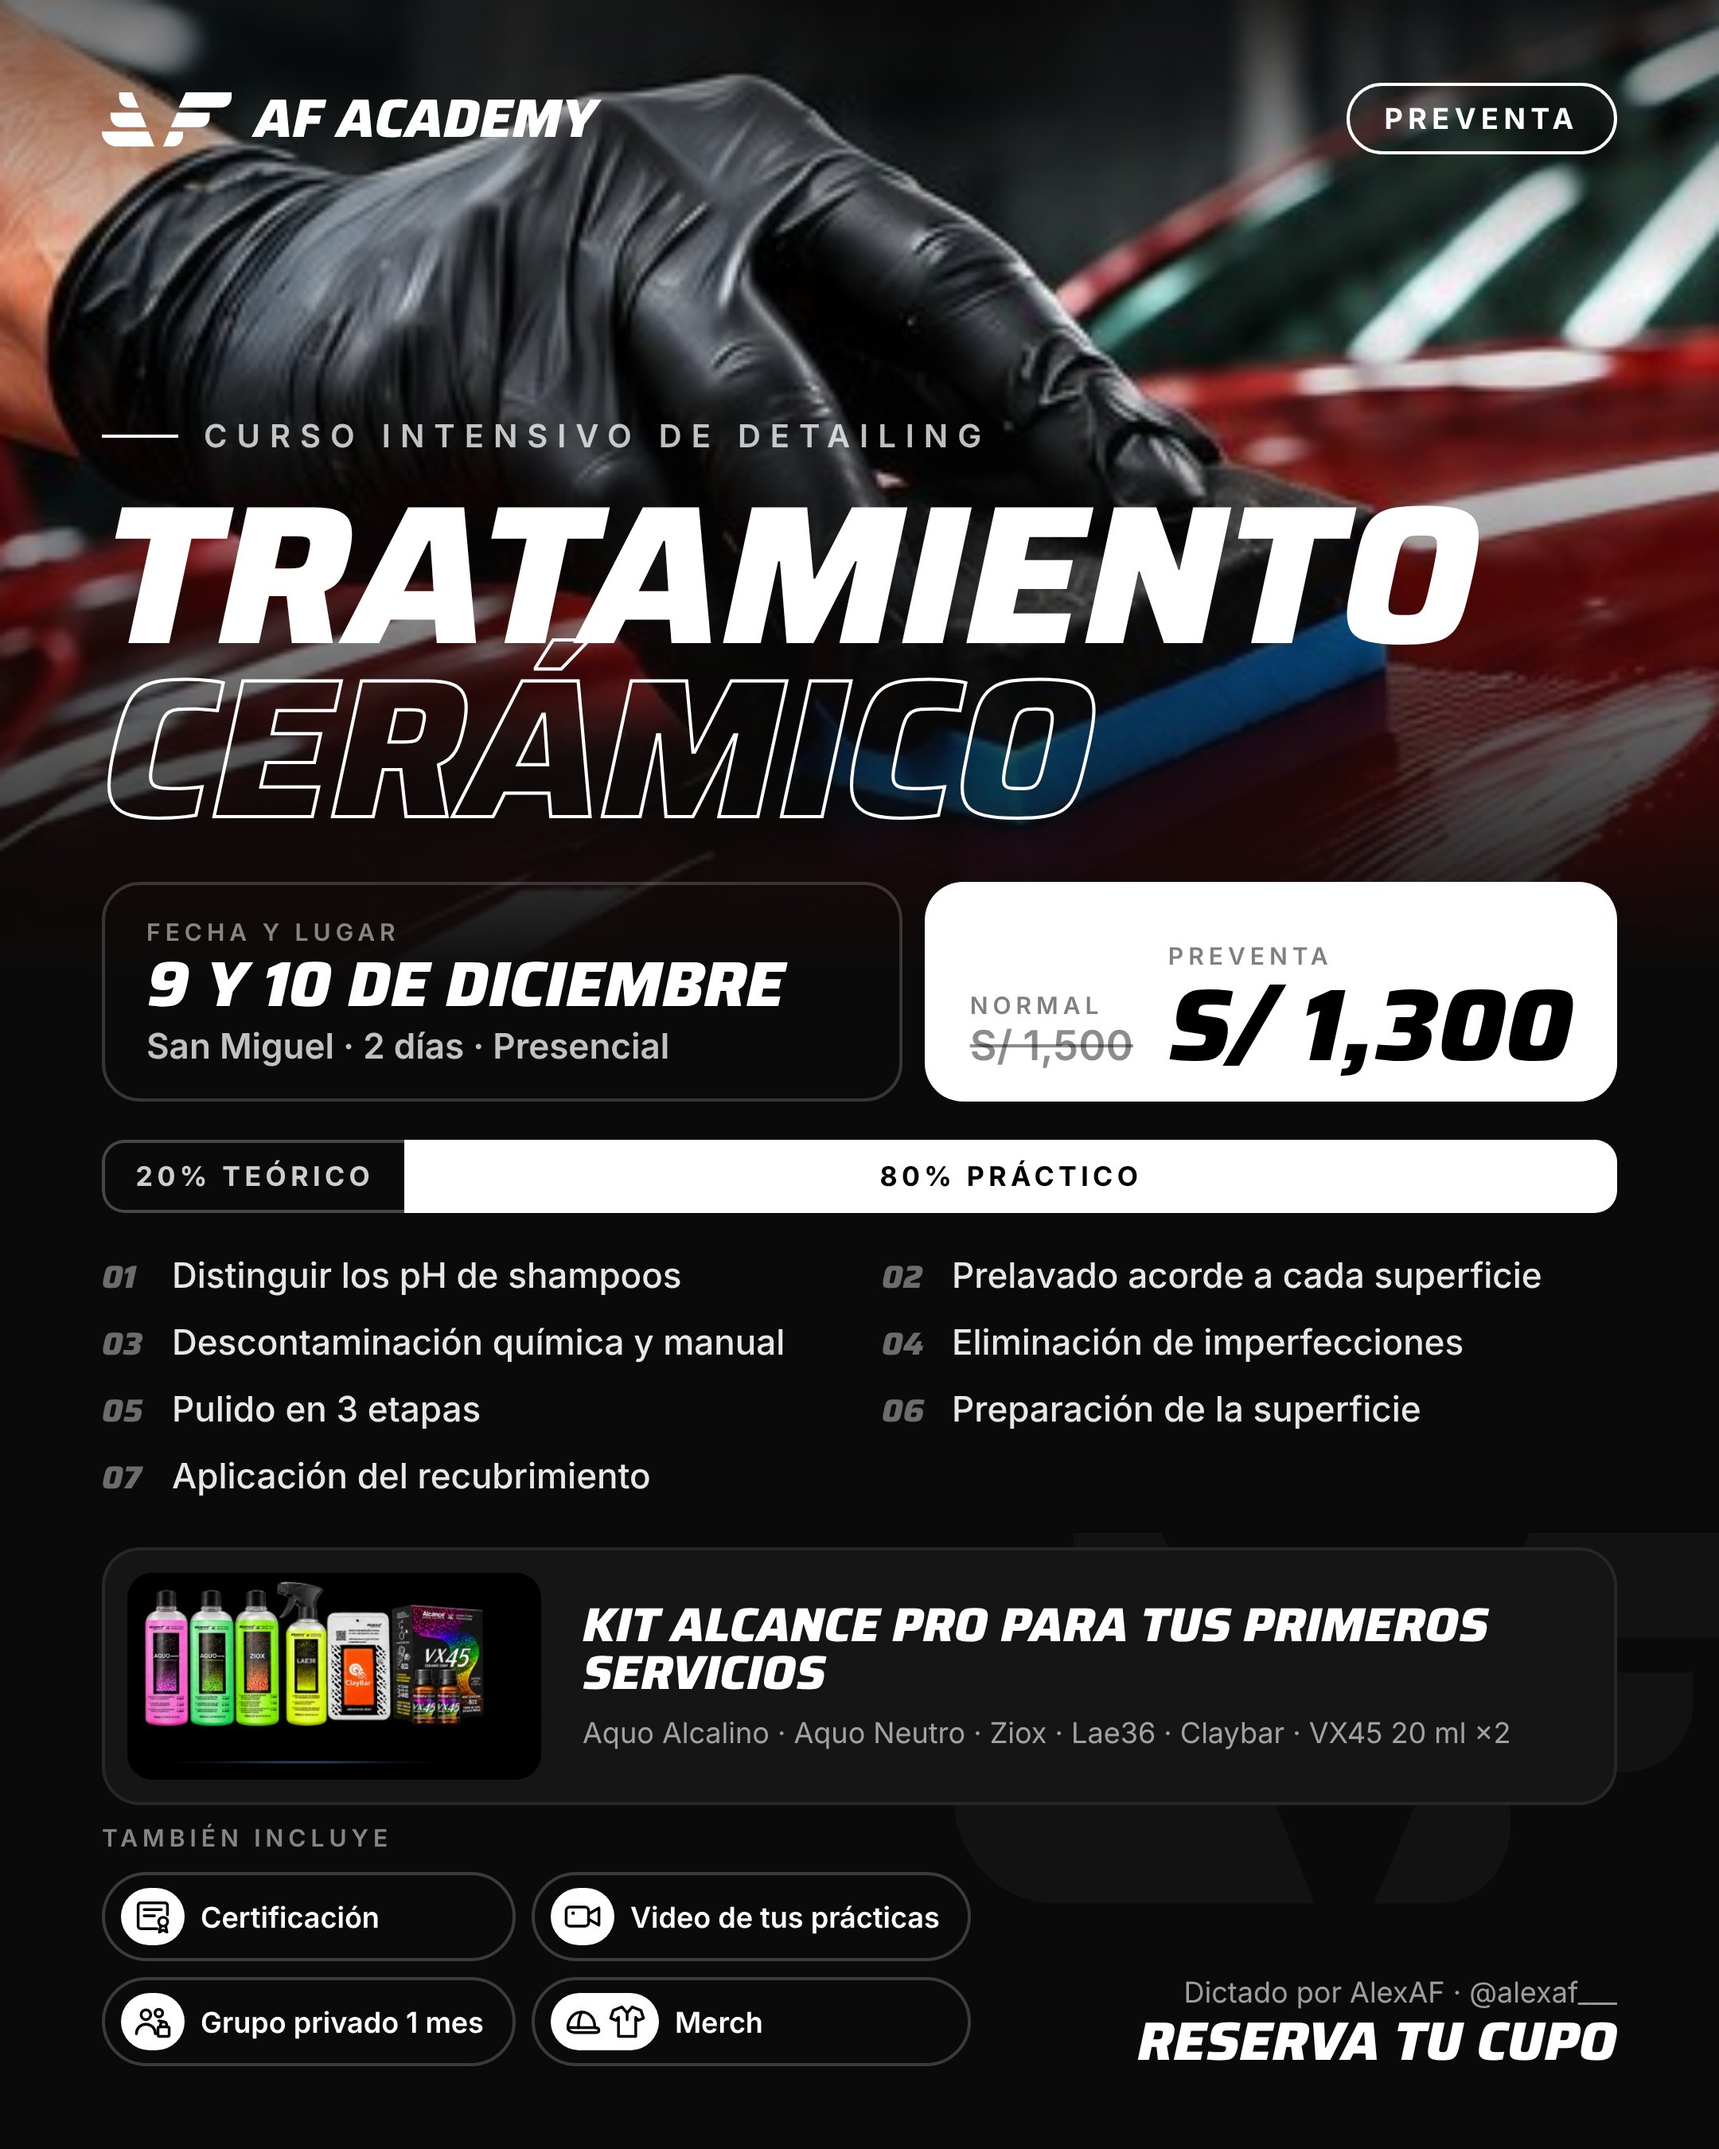
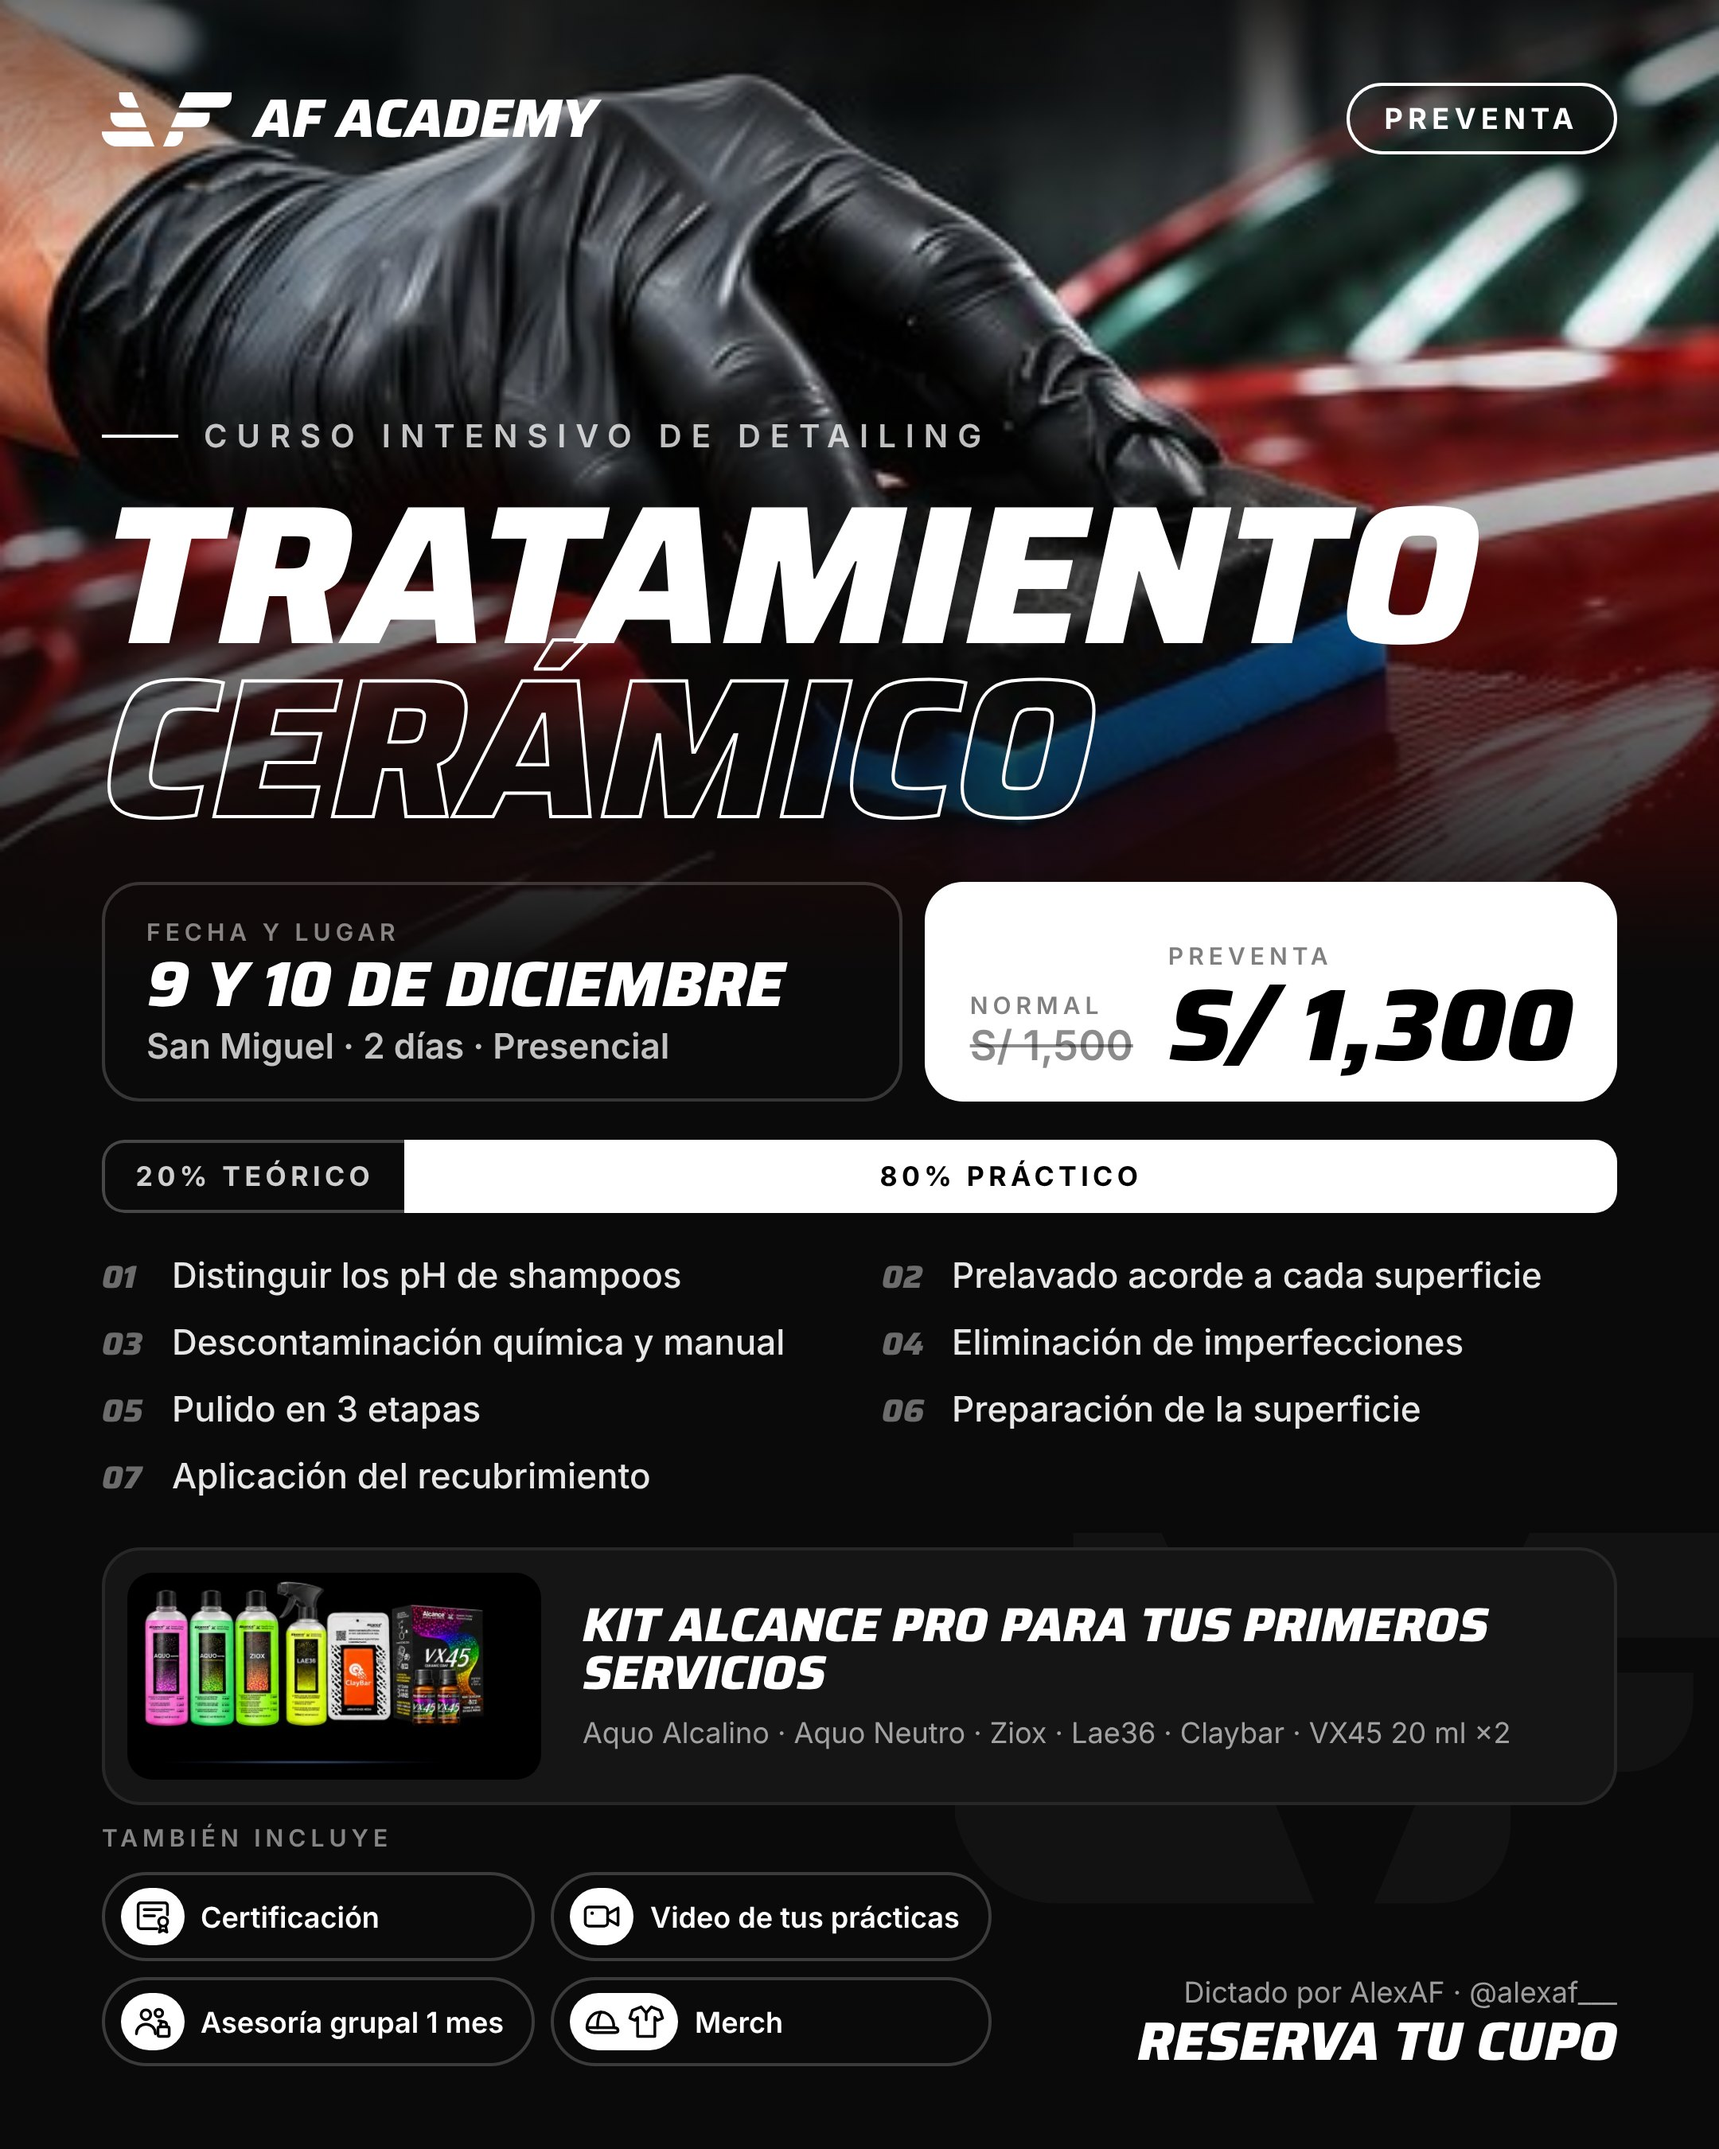
Asesoría grupal, Kit Emprende y certificaciones de Alex con banderas (U.S.A., Brasil, Argentina)
Claude-Session: https://claude.ai/code/session_01JeKCNjXde6szZMvGvJ2iR1

Changed region(s): [[0.1241, 0.8711, 0.5894, 0.9644], [0.5583, 0.9333, 0.5894, 0.9644]]

diff --git a/src/config/site.ts b/src/config/site.ts
@@ -34,10 +34,12 @@ export const site = {
     /** Foto del coach en /public/coach/. */
     photo: "/coach/alex.jpg",
     /** Títulos tal como aparecen en su biografía de TikTok. */
-    roles: ["9 años en el rubro", "CEO de AF Detailing", "Trainer Oficial Feynlab Perú", "Certificaciones internacionales en Brasil y Argentina"],
+    /** Países de sus certificaciones internacionales (se muestran con bandera). */
+    certifications: ["USA", "Brasil", "Argentina"] as const,
+    roles: ["9 años en el rubro", "CEO de AF Detailing", "Trainer Oficial Feynlab Perú", "Certificaciones internacionales"],
     /** Biografía (cada elemento es un párrafo). */
     bio: [
-      "Con 9 años de experiencia en el rubro, Alex es CEO de AF Detailing y Trainer Oficial de Feynlab en Perú. Cuenta con certificaciones internacionales en Brasil y Argentina y se especializa en la instalación de Paint Protection Film (PPF) y en la aplicación de recubrimientos cerámicos.",
+      "Con 9 años de experiencia en el rubro, Alex es CEO de AF Detailing y Trainer Oficial de Feynlab en Perú. Cuenta con certificaciones internacionales en Estados Unidos, Brasil y Argentina y se especializa en la instalación de Paint Protection Film (PPF) y en la aplicación de recubrimientos cerámicos.",
       "Su método combina técnica profesional y práctica real en taller. En AF Academy forma a detailers y emprendedores para que dominen cada proceso con estándares de alto nivel y puedan ofrecerlo como un servicio profesional. Además, comparte su trabajo en redes con una comunidad de más de 13 mil seguidores.",
     ],
     /** PENDIENTE: mensaje personal del coach. */

diff --git a/src/content/courses.ts b/src/content/courses.ts
@@ -13,7 +13,7 @@ export type CourseStatus = "abierto" | "proximamente" | "lleno";
 
 export type Kit = {
   title: string;
-  /** Nombre corto que se muestra en «Bonos» (p. ej. «Kit Cerámico»). */
+  /** Nombre corto que se muestra en «Bonos» (p. ej. «Kit Emprende Cerámico»). */
   label: string;
   /** Marca que provee el kit (debe existir en content/media.ts → brands). */
   brand: string;
@@ -57,7 +57,7 @@ export type Course = {
   seo?: { title?: string; description?: string };
 };
 
-const commonIncludes = ["Certificación", "Video de tus prácticas", "Grupo privado durante 1 mes", "Merch"];
+const commonIncludes = ["Certificación", "Video de tus prácticas", "Asesoría grupal durante 1 mes", "Merch"];
 
 /** Lo que incluyen los cursos presenciales. */
 const commonIncluye = [
@@ -99,7 +99,7 @@ export const courses: Course[] = [
     split: { theory: 20, practice: 80 },
     kit: {
       title: "Kit Alcance Pro para tus primeros servicios",
-      label: "Kit Cerámico",
+      label: "Kit Emprende Cerámico",
       brand: "Alcance Pro",
       items: [
         "Aquo Alcalino 500 ml",
@@ -150,7 +150,7 @@ export const courses: Course[] = [
     split: { theory: 20, practice: 80 },
     kit: {
       title: "Kit PPF para tus primeros servicios",
-      label: "Kit PPF",
+      label: "Kit Emprende PPF",
       brand: "Película Da Vida",
       items: ["2.5 metros lineales de PPF de regalo", "Magic Gel 1 L", "Magic Activator 1 L", "Kit de paletas", "Cuchilla"],
       perks: ["10% de descuento en PPF", "20% de descuento en gel + activador"],

diff --git a/src/components/Flags.tsx b/src/components/Flags.tsx
@@ -1,0 +1,33 @@
+/** Banderas simplificadas en SVG (se ven igual en cualquier dispositivo). */
+type P = { className?: string };
+
+export const FlagUSA = ({ className }: P) => (
+  <svg viewBox="0 0 30 20" className={className} aria-hidden="true">
+    {Array.from({ length: 13 }, (_, i) => (
+      <rect key={i} y={(i * 20) / 13} width="30" height={20 / 13 + 0.05} fill={i % 2 ? "#fff" : "#b22234"} />
+    ))}
+    <rect width="13" height={(20 / 13) * 7} fill="#3c3b6e" />
+    {Array.from({ length: 4 }, (_, r) =>
+      Array.from({ length: 5 }, (_, c) => (
+        <circle key={`${r}-${c}`} cx={1.6 + c * 2.45} cy={1.5 + r * 2.6} r="0.55" fill="#fff" />
+      )),
+    )}
+  </svg>
+);
+
+export const FlagBrazil = ({ className }: P) => (
+  <svg viewBox="0 0 30 20" className={className} aria-hidden="true">
+    <rect width="30" height="20" fill="#009c3b" />
+    <path d="M15 2.5 27 10 15 17.5 3 10Z" fill="#ffdf00" />
+    <circle cx="15" cy="10" r="4.6" fill="#002776" />
+    <path d="M10.6 9.2c3-1 6.4-.6 8.8 1" stroke="#fff" strokeWidth="0.8" fill="none" />
+  </svg>
+);
+
+export const FlagArgentina = ({ className }: P) => (
+  <svg viewBox="0 0 30 20" className={className} aria-hidden="true">
+    <rect width="30" height="20" fill="#74acdf" />
+    <rect y="6.67" width="30" height="6.66" fill="#fff" />
+    <circle cx="15" cy="10" r="2" fill="#f6b40e" stroke="#85340a" strokeWidth="0.3" />
+  </svg>
+);

diff --git a/src/components/sections/About.tsx b/src/components/sections/About.tsx
@@ -1,5 +1,6 @@
 import Image from "next/image";
 import { site } from "@/config/site";
+import { FlagArgentina, FlagBrazil, FlagUSA } from "../Flags";
 import { LogoMark } from "../Logo";
 import { Reveal } from "../Reveal";
 import { IconArrow, IconInstagram, IconTikTok } from "../Icons";
@@ -39,6 +40,20 @@ export function About() {
               </li>
             ))}
           </ul>
+
+          {/* Certificaciones internacionales con bandera */}
+          <div className="mt-5 flex flex-wrap items-center gap-2">
+            <span className="mr-1 text-[11px] font-semibold tracking-[0.2em] text-black/60 uppercase">Certificado en</span>
+            {coach.certifications.map((c) => {
+              const Flag = { USA: FlagUSA, Brasil: FlagBrazil, Argentina: FlagArgentina }[c];
+              return (
+                <span key={c} className="inline-flex items-center gap-2 rounded-full bg-black py-1.5 pr-4 pl-2 text-sm font-semibold text-white">
+                  <Flag className="h-4 w-6 rounded-[3px] ring-1 ring-white/30" />
+                  {c === "USA" ? "U.S.A." : c}
+                </span>
+              );
+            })}
+          </div>
 
           <div className="mt-8 max-w-lg space-y-4 text-lg leading-relaxed text-black/65">
             {coach.bio.map((p) => (

diff --git a/src/content/media.ts b/src/content/media.ts
@@ -107,7 +107,7 @@ export const faqs: Faq[] = [
     q: "¿Qué medios de pago aceptan?",
     a: "Aceptamos Yape, Plin, transferencia bancaria y pago con tarjeta. Tu asesor te indicará los datos para realizar el pago de la separación y del saldo.",
   },
-  { q: "¿Entregan certificado?", a: "Sí. Ambos cursos incluyen certificación, el video de tus prácticas, un grupo privado durante 1 mes y merch." },
+  { q: "¿Entregan certificado?", a: "Sí. Ambos cursos incluyen certificación, el video de tus prácticas, asesoría grupal durante 1 mes y merch." },
   {
     q: "¿Qué incluye cada curso?",
     a: "Tratamiento Cerámico incluye un kit Alcance Pro para tus primeros servicios (Aquo Alcalino, Aquo Neutro, Ziox, Lae36, Claybar y 2 VX45 de 20 ml), además de 20% de descuento en tu primera compra de productos Alcance Pro. Instalación de PPF incluye 2.5 metros lineales de PPF Película Da Vida de regalo, Magic Gel, Magic Activator, kit de paletas y cuchilla, además de 10% de descuento en PPF y 20% en gel + activador.",

diff --git a/scripts/flyers/make.js b/scripts/flyers/make.js
@@ -117,7 +117,7 @@ h1 .o{color:transparent;-webkit-text-stroke:2px #fff}
   <div class="kit"><img src="${img(c.kitImg)}"><div><div class="d t">${c.kit}</div><p>${c.kitItems}</p></div></div>
 </div>
 <div class="foot">
-  <div><div class="k" style="margin-bottom:12px">También incluye</div><div class="inc"><span><i>${ICON.cert}</i>Certificación</span><span><i>${ICON.video}</i>Video de tus prácticas</span><span><i>${ICON.group}</i>Grupo privado 1 mes</span><span><i>${ICON.cap}${ICON.polo}</i>Merch</span></div></div>
+  <div><div class="k" style="margin-bottom:12px">También incluye</div><div class="inc"><span><i>${ICON.cert}</i>Certificación</span><span><i>${ICON.video}</i>Video de tus prácticas</span><span><i>${ICON.group}</i>Asesoría grupal 1 mes</span><span><i>${ICON.cap}${ICON.polo}</i>Merch</span></div></div>
   <div class="cta">Dictado por AlexAF · @alexaf___<div class="d">Reserva tu cupo</div></div>
 </div>
 </body></html>`;

diff --git a/src/components/ItemIcons.tsx b/src/components/ItemIcons.tsx
@@ -241,9 +241,9 @@ export const IconWorkshop = ({ className }: P) => (
 
 const rules: [RegExp, React.ComponentType<P>[]][] = [
   [/descuento|%\s*de\s*desc/i, [IconDiscount]],
-  [/grupo privado|comunidad/i, [IconPrivateGroup]],
-  [/kit cer[aá]mico/i, [IconKitCeramic]],
-  [/kit ppf/i, [IconKitPPF]],
+  [/asesor[ií]a grupal|grupo privado|comunidad/i, [IconPrivateGroup]],
+  [/kit.*cer[aá]mico/i, [IconKitCeramic]],
+  [/kit.*ppf/i, [IconKitPPF]],
   [/^kit\b/i, [IconGiftBox]],
   [/d[ií]as|teor[ií]a/i, [IconTime]],
   [/impreso/i, [IconPrinted]],
